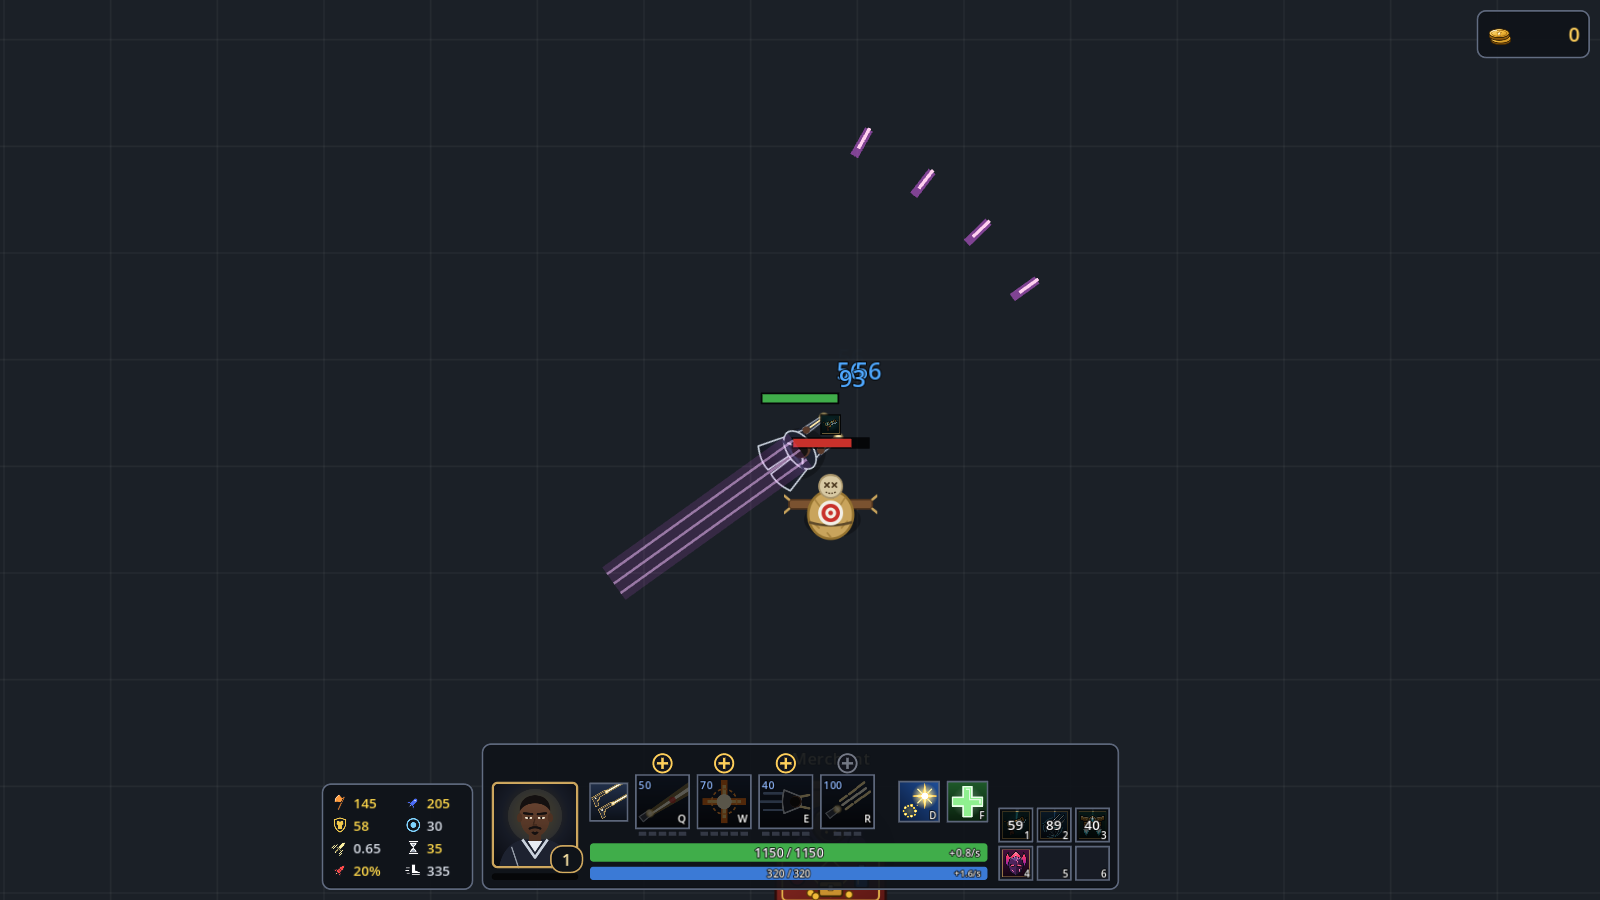
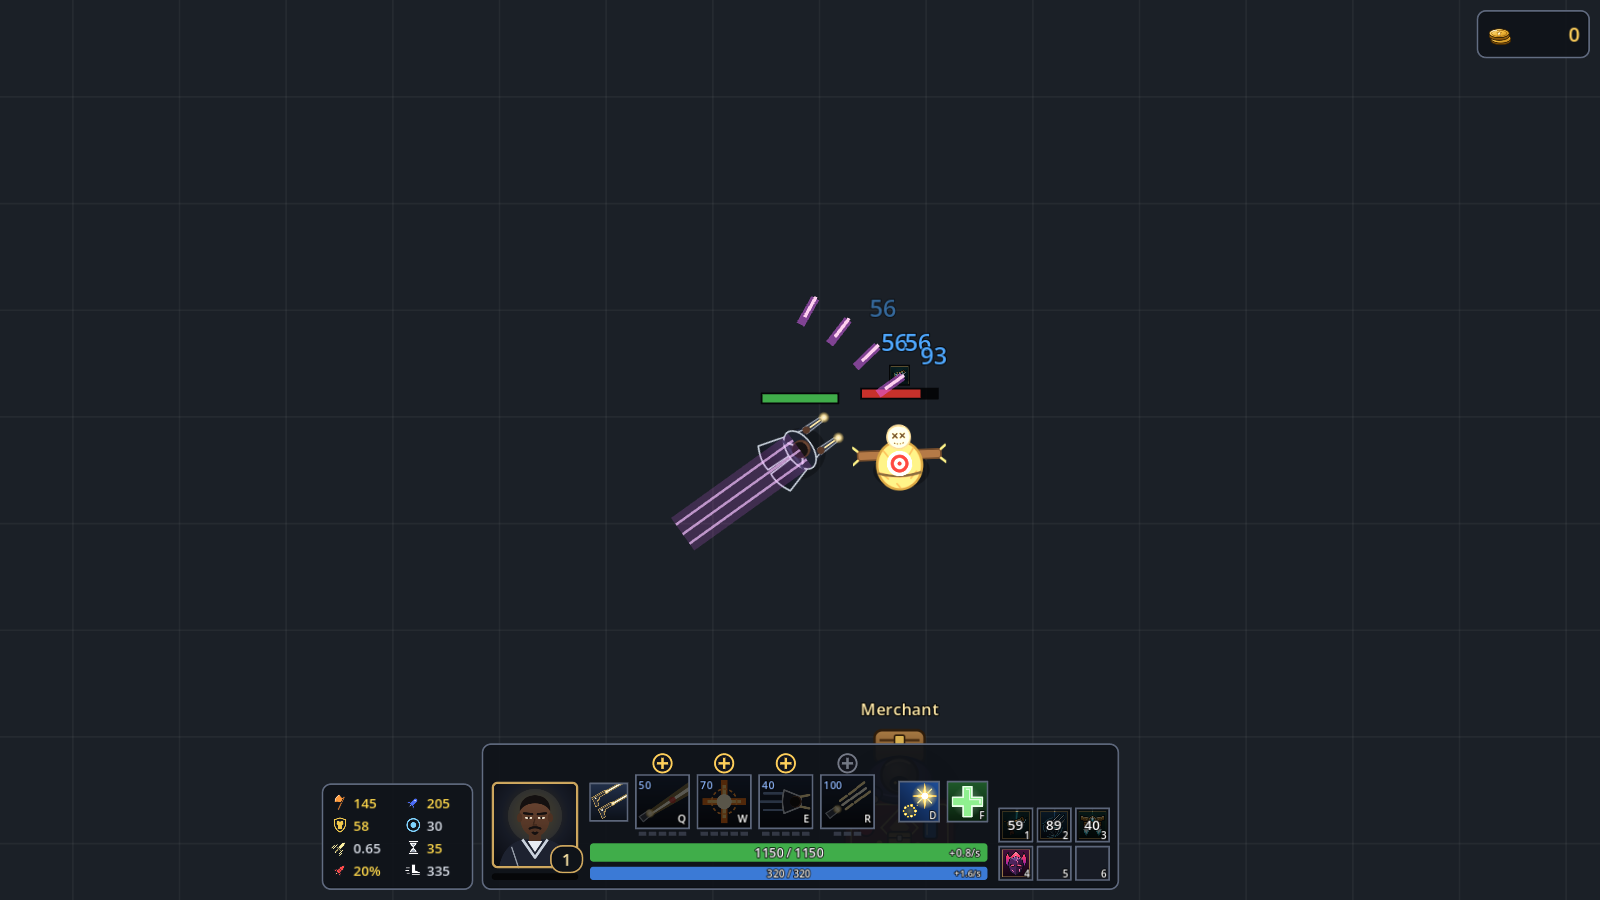
Dash trails grow behind Lucian from the start of the dash and fade once it lands

diff --git a/docs/report/phase4.md b/docs/report/phase4.md
@@ -67,7 +67,7 @@ Each spell keeps its own cooldown, also when you move it to the other key. Abili
 | One regen stat in the extra table | One cell with a heart-and-droplet icon: "0.8 / 1.6" (health / mana per second). The extra table is now 2 × 4. |
 | Stats with a bonus in yellow; base + bonus on hover | A number turns yellow when items, passives, buffs or cheats add to what the level alone gives. Its hover card shows "60 base + 22 bonus" with the bonus in yellow. |
 | Redraw the Flash and Barrier icons | Flash: a burst of light where it lands and a ring of yellow sparks where it left. Barrier: a gold figure inside a golden bubble. |
-| Every dash shows a trail; Flash only marks where Lucian was | E (light blue), Galeforce (pale green) and Rocketbelt (violet) leave a trail once the dash lands. Flash leaves none: yellow sparks ring the spot Lucian left, drift out and fade in 0.6 s. |
+| Every dash shows a trail; Flash only marks where Lucian was | E (light blue), Galeforce (pale green) and Rocketbelt (violet) leave a trail that grows behind Lucian from the start of the dash and fades once it lands. Flash leaves none: yellow sparks ring the spot Lucian left, drift out and fade in 0.6 s. |
 
 ## Choices I made where the request was open
 
@@ -108,7 +108,7 @@ Each spell keeps its own cooldown, also when you move it to the other key. Abili
 | ![Grey plus](phase4/skillbar_0_plus.png) Level 2 with a point: gold + on E, grey on Q (needs level 3) and R, grey with a lock on W (rank not bought); 45 px passive | ![R greys Q/W](phase4/skillbar_1_r_greys_qw.png) R firing: Q and W grey |
 | ![Q greys E](phase4/skillbar_2_q_greys_e.png) Q's cast time: E grey | ![Extra stats](phase4/stats_1_extra.png) Holding C: the extra stats above the main table |
 | ![Stat card](phase4/stats_2_hover.png) Hovering Attack Damage | ![Item card](phase4/stats_3_item_card.png) Item card: icon, amount, name |
-| ![RFC ring](phase4/rfc_ring_0_ready.png) RFC at full charge: the 675 range ring | ![Rocketbelt](phase4/actives_2_rocketbelt.png) Rocketbelt arc, flying ahead of Lucian; its violet dash trail |
+| ![RFC ring](phase4/rfc_ring_0_ready.png) RFC at full charge: the 675 range ring | ![Rocketbelt](phase4/actives_2_rocketbelt.png) Rocketbelt arc, flying ahead of Lucian; mid-dash, its violet trail grows behind him |
 | ![Summoners](phase4/summoners_0_hud_and_picker.png) D/F on the HUD, debug picker | ![Smite](phase4/summoners_3_smite.png) Smite: 450 true damage; Barrier on the HP bar, Ghost and Barrier buffs |
 | ![Summoner card](phase4/summoners_5_card.png) Heal's card; cooldowns on D and F | ![Resolution](phase4/settings_3_graphics.png) Graphics → Resolution |
 | ![Camera away](phase4/camera_0_away.png) Free camera panned away | ![Camera back](phase4/camera_1_back.png) After Space |

diff --git a/docs/implementation/phase4.md b/docs/implementation/phase4.md
@@ -869,7 +869,7 @@ Everything in the plan is in place, one commit per task (Tasks 0–9), then the 
 - **One regen stat:** the extra table's `regen` cell shows "health / mana" per second with one icon (`assets/art/stats/regen.svg`); the separate `hp_regen` / `mana_regen` stat keys and icons are gone. The extra table is 2 × 4, like the main one.
 
 - **Bonus stats in yellow:** `StatsPanel` compares each value with `base_stats.at_level(level)` (Lucian's level alone), as shown on screen, so tiny float differences never count. A difference turns the number yellow (`StatCell.BONUS_COLOR`), and the hover card adds "base + bonus".
-- **Dash trails:** `Lucian.start_dash()` takes a trail color and leaves a `DashTrail` from the start to where the dash ended (E's own trail code moved there). E keeps its light blue (`DashTrail.LIGHT`); Galeforce's is pale green (`GALEFORCE_TRAIL`), Rocketbelt's violet like its bolts (`ROCKETBELT_TRAIL`). None on low effects.
+- **Dash trails:** `Lucian.start_dash()` takes a trail color and spawns a `DashTrail` at the start of the dash (E's own trail code moved there). Each dash step stretches it up to Lucian (`reach()`), and it fades for 0.3 s once the dash ends (`finish()`). A first try drew it only when the dash ended; it now grows from the start. E keeps its light blue (`DashTrail.LIGHT`); Galeforce's is pale green (`GALEFORCE_TRAIL`), Rocketbelt's violet like its bolts (`ROCKETBELT_TRAIL`). None on low effects.
 - **Flash** no longer draws a trail. `BlinkSparks` (`src/combat/blink_sparks.gd`) rings the spot Lucian left with 16 yellow sparks that drift out and up and fade over 0.6 s, with a thin ring popping out.
 - **Icons redrawn:** Flash is a burst of light where it lands, with a ring of yellow sparks where it left; Barrier is a gold figure inside a golden bubble with faint hex lines.
 
